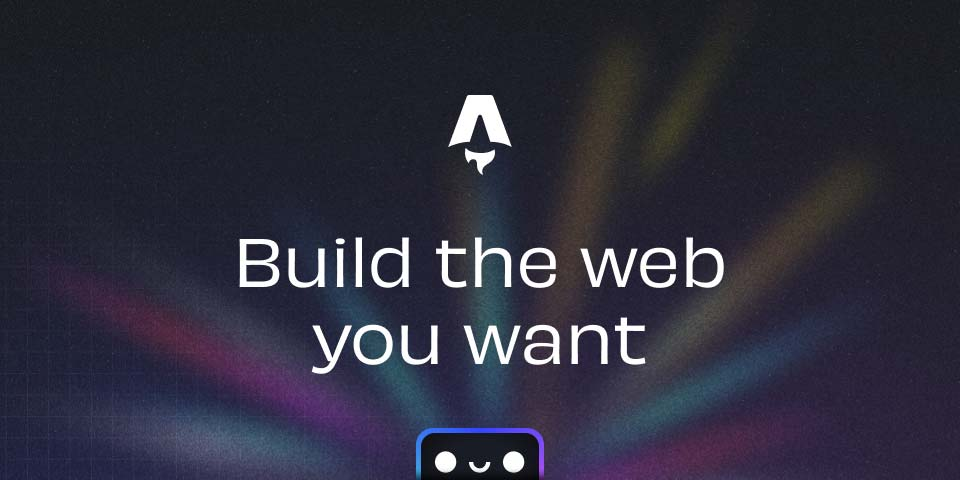
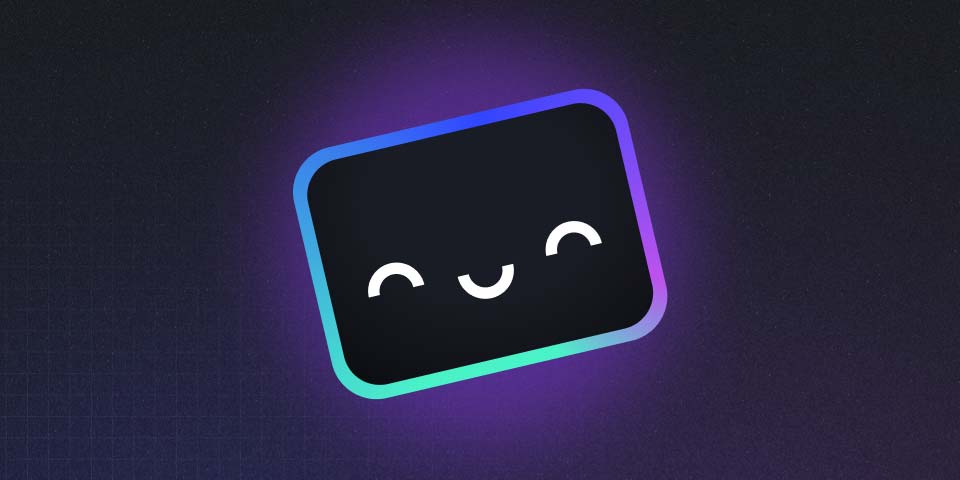
feat: cleanup

diff --git a/src/styles/global.css b/src/styles/global.css
@@ -19,7 +19,7 @@
 }
 
 body {
-	font-family: var(--font-atkinson);
+	font-family: 'Poppins', Arial, sans-serif;
 	margin: 0;
 	padding: 0;
 	text-align: left;